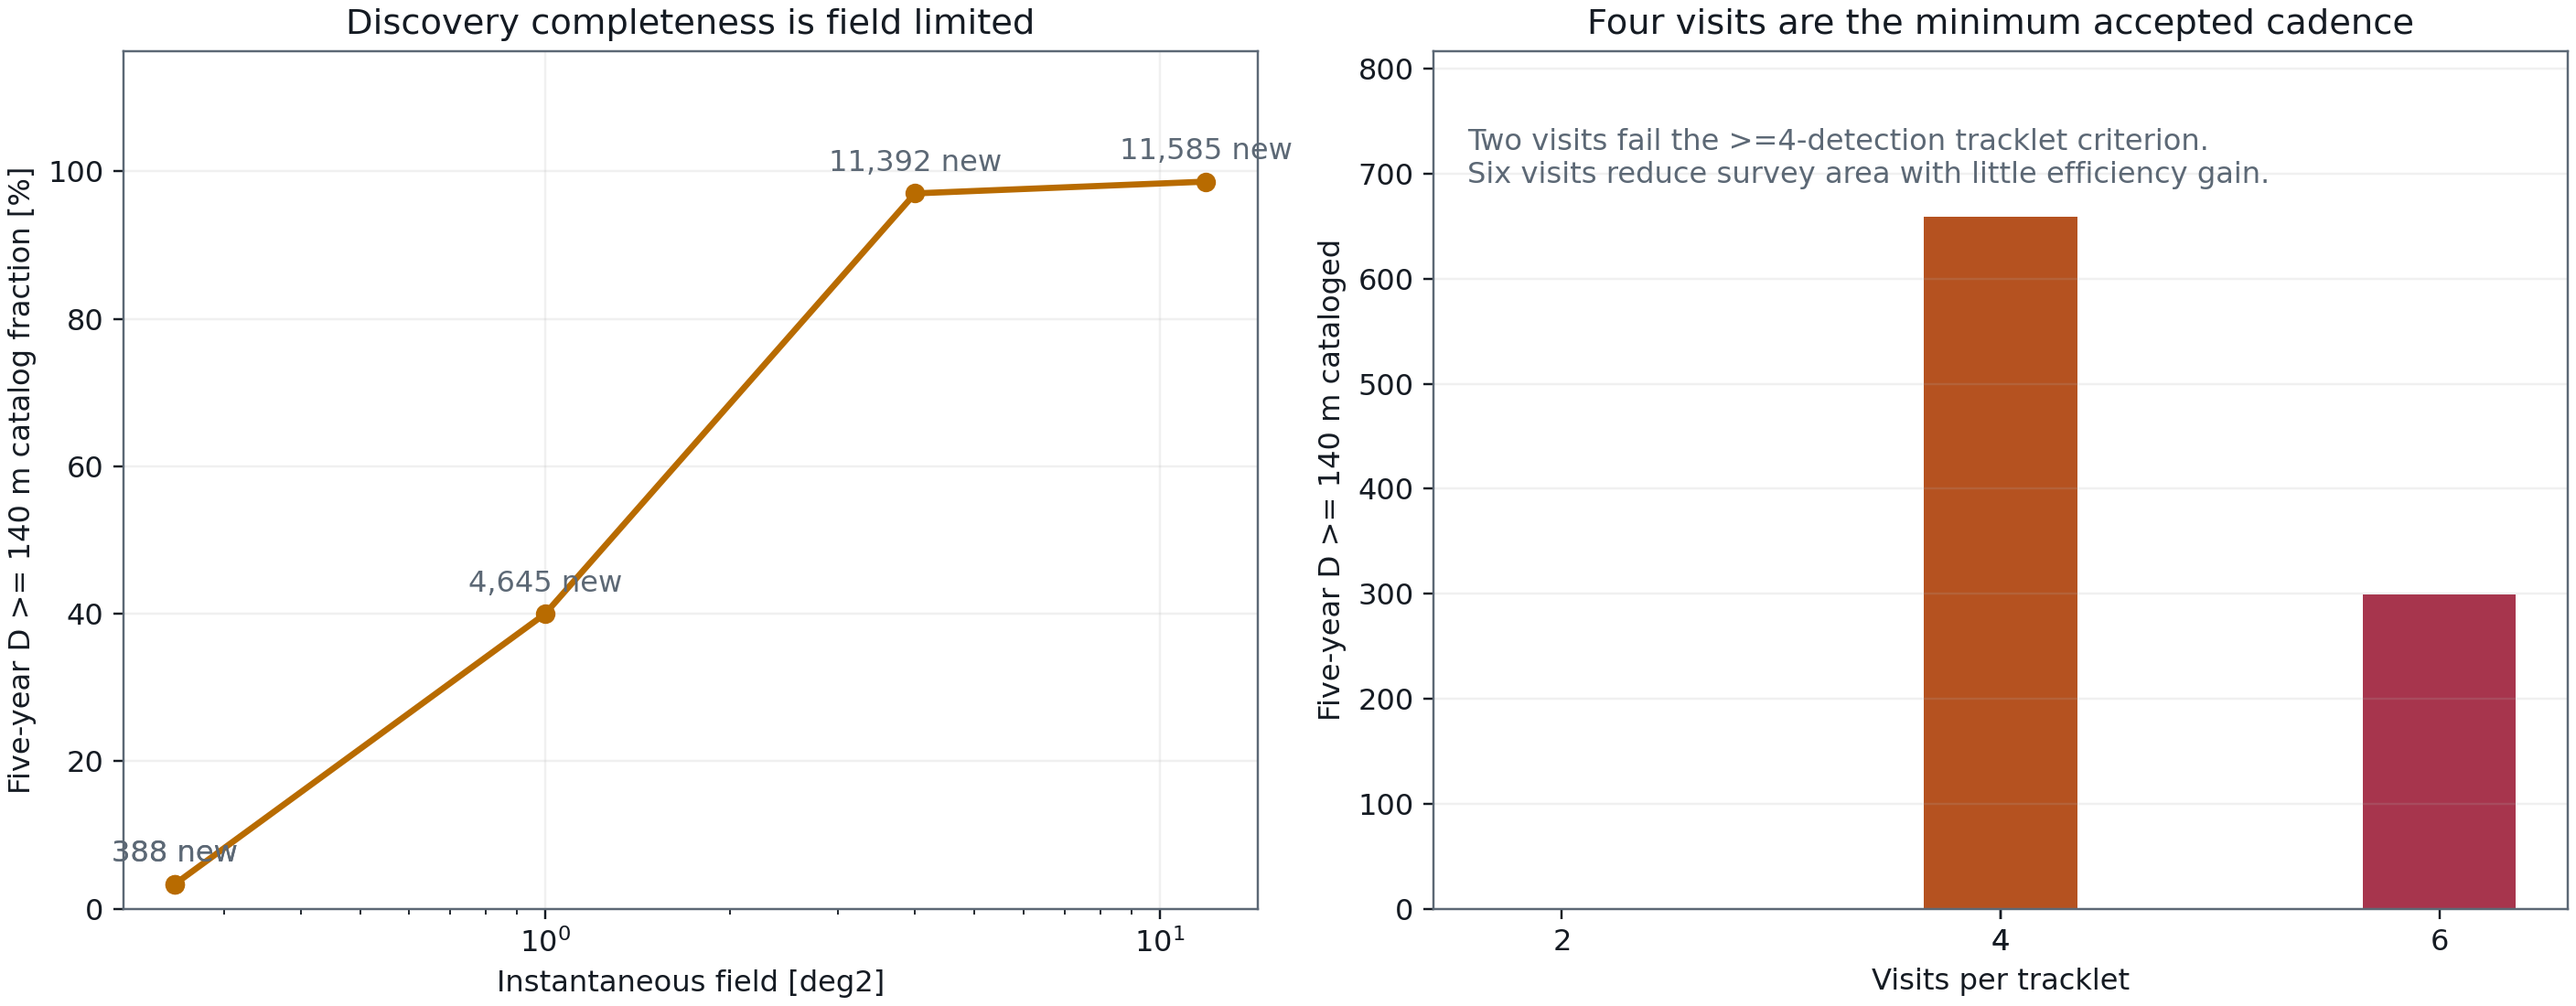
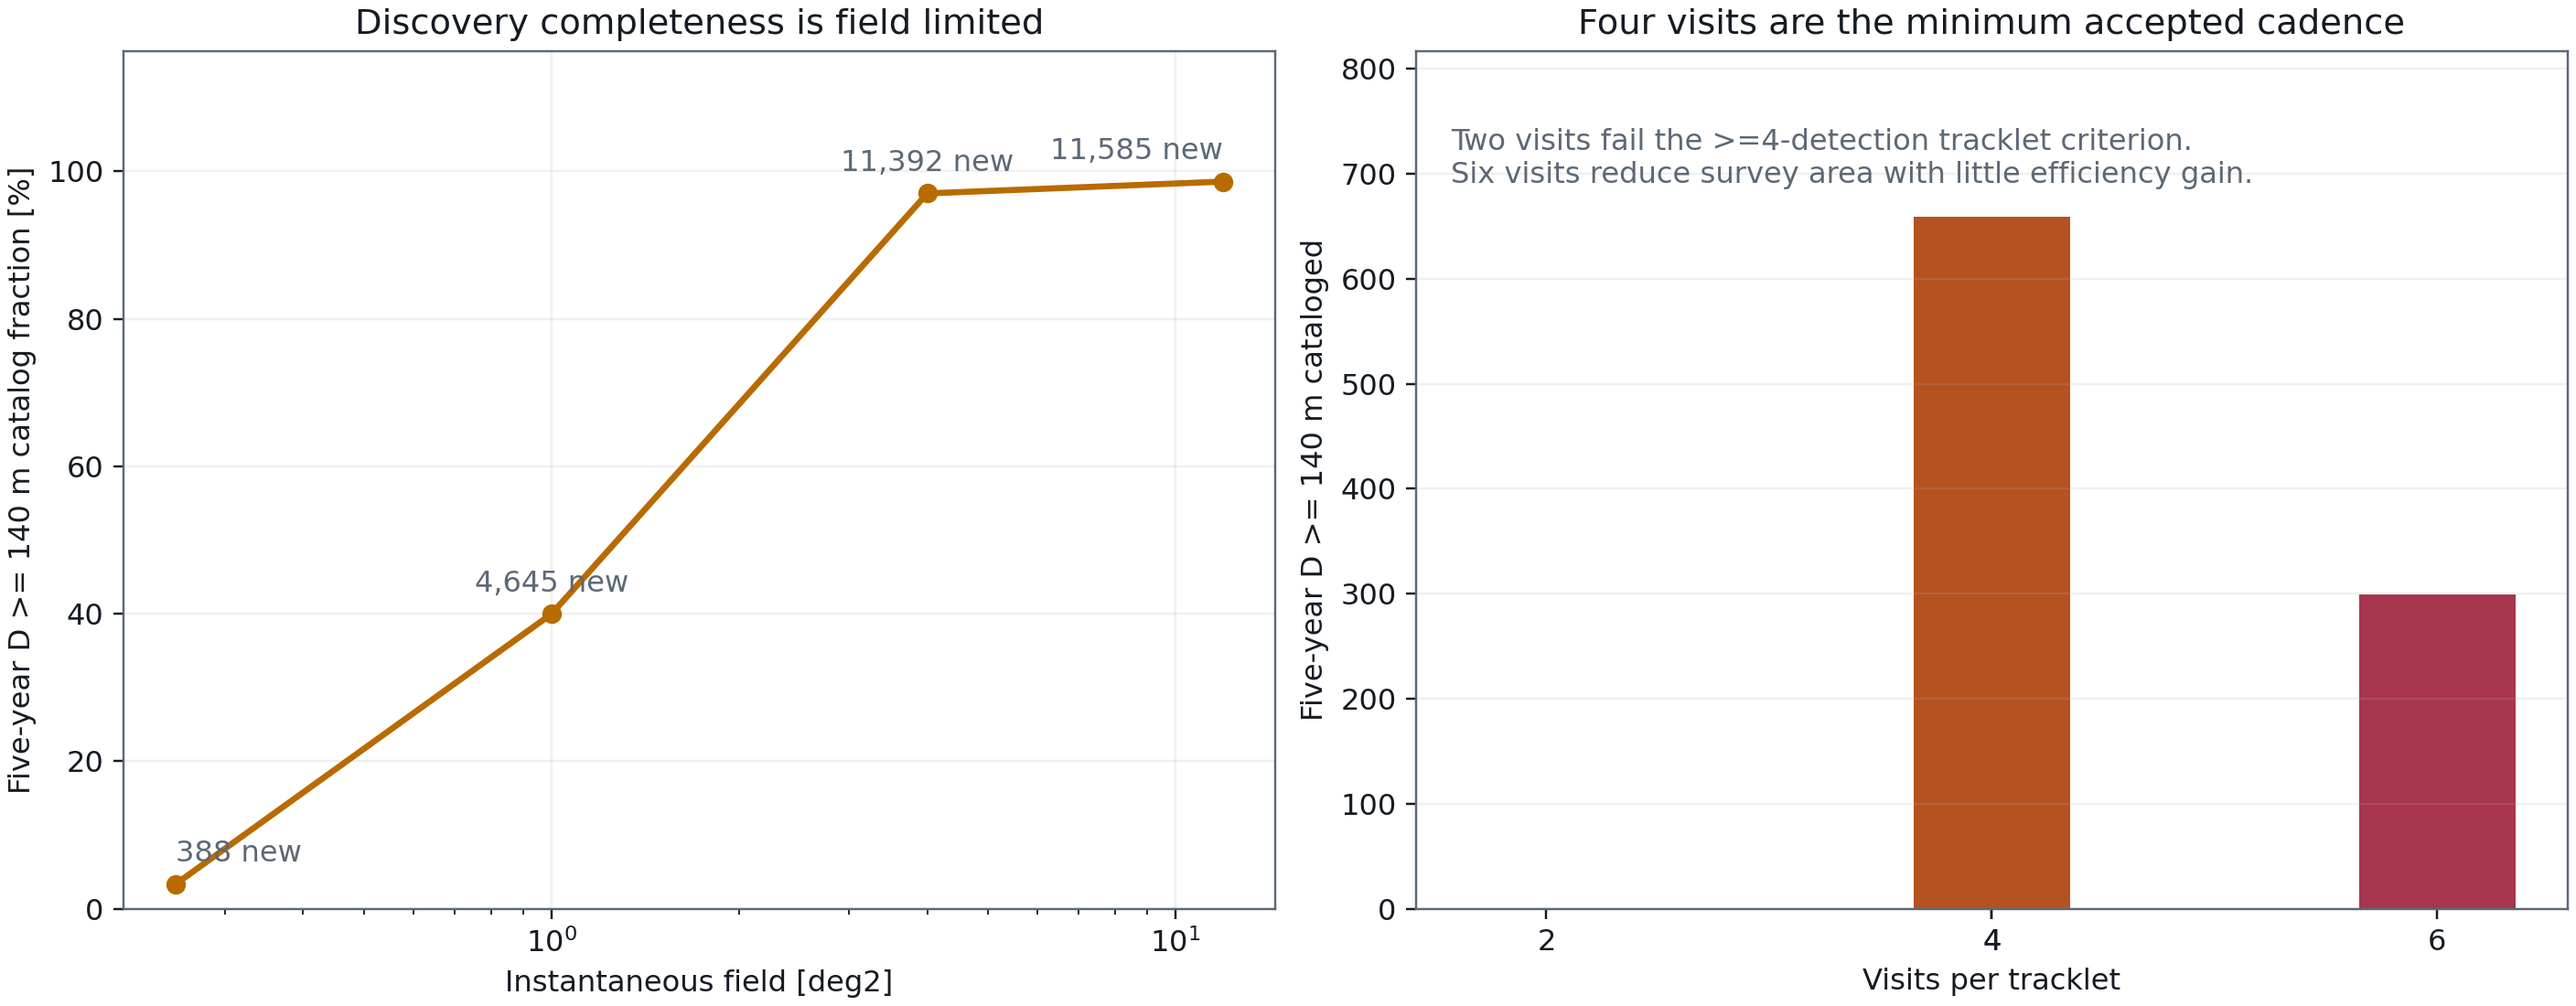
Improve Appendix C figure legibility

diff --git a/neo_survey_yield.py b/neo_survey_yield.py
@@ -191,7 +191,10 @@ def make_figure(scenarios):
         and row["time_fraction"] == 1.0
         and row["latitude_limit_deg"] == 40
     ]
-    fov_scenarios = sorted(fov_scenarios, key=lambda row: row["fov_deg2"])
+    fov_scenarios = sorted(
+        {row["fov_deg2"]: row for row in fov_scenarios}.values(),
+        key=lambda row: row["fov_deg2"],
+    )
     fov = [row["fov_deg2"] for row in fov_scenarios]
     completeness = [
         100.0 * row["d140plus_completeness"] for row in fov_scenarios]
@@ -203,10 +206,18 @@ def make_figure(scenarios):
     axes[0].set_title("Discovery completeness is field limited")
     axes[0].grid(alpha=0.18)
     axes[0].set_ylim(0.0, max(completeness) * 1.18)
-    for x, y, value in zip(fov, completeness, new):
+    for index, (x, y, value) in enumerate(
+        zip(fov, completeness, new, strict=True)
+    ):
+        if index == 0:
+            alignment = "left"
+        elif index == len(fov) - 1:
+            alignment = "right"
+        else:
+            alignment = "center"
         axes[0].annotate(
             f"{value:,.0f} new", (x, y), xytext=(0, 8),
-            textcoords="offset points", ha="center", color="#5C6875")
+            textcoords="offset points", ha=alignment, color="#5C6875")
 
     visit_scenarios = [
         row for row in scenarios

diff --git a/make_appendixC_figures.py b/make_appendixC_figures.py
@@ -13,6 +13,7 @@ PANEL = "#f6f7f2"
 TEXT = "#151b23"
 MUTED = "#5c6875"
 TEAL = "#007c77"
+VISIBLE_SKY = "#70d8c7"
 GOLD = "#b86b00"
 ORANGE = "#b55220"
 RED = "#a7354d"
@@ -177,8 +178,8 @@ def l2_observability() -> None:
     classes = np.zeros_like(elongation)
     classes[(elongation >= np.deg2rad(45)) & (elongation < np.deg2rad(60))] = 1
     classes[elongation >= np.deg2rad(60)] = 2
-    cmap = mpl.colors.ListedColormap([RED, ORANGE, TEAL])
-    sky.pcolormesh(longitude, lat_grid, classes, cmap=cmap, shading="auto", alpha=0.78)
+    cmap = mpl.colors.ListedColormap([RED, ORANGE, VISIBLE_SKY])
+    sky.pcolormesh(longitude, lat_grid, classes, cmap=cmap, shading="auto", alpha=0.92)
     sky.scatter([0], [0], color=GOLD, s=90, marker="*", zorder=5)
     sky.annotate(
         "Sun + Earth direction",
@@ -194,7 +195,7 @@ def l2_observability() -> None:
         handles=[
             Patch(facecolor=RED, label="forbidden: elongation < 45 deg"),
             Patch(facecolor=ORANGE, label="45-60 deg: dedicated forward baffle and thermal design"),
-            Patch(facecolor=TEAL, label="baseline field: elongation > 60 deg"),
+            Patch(facecolor=VISIBLE_SKY, label="baseline field: elongation > 60 deg"),
         ],
         loc="lower center",
         bbox_to_anchor=(0.5, -0.005),
